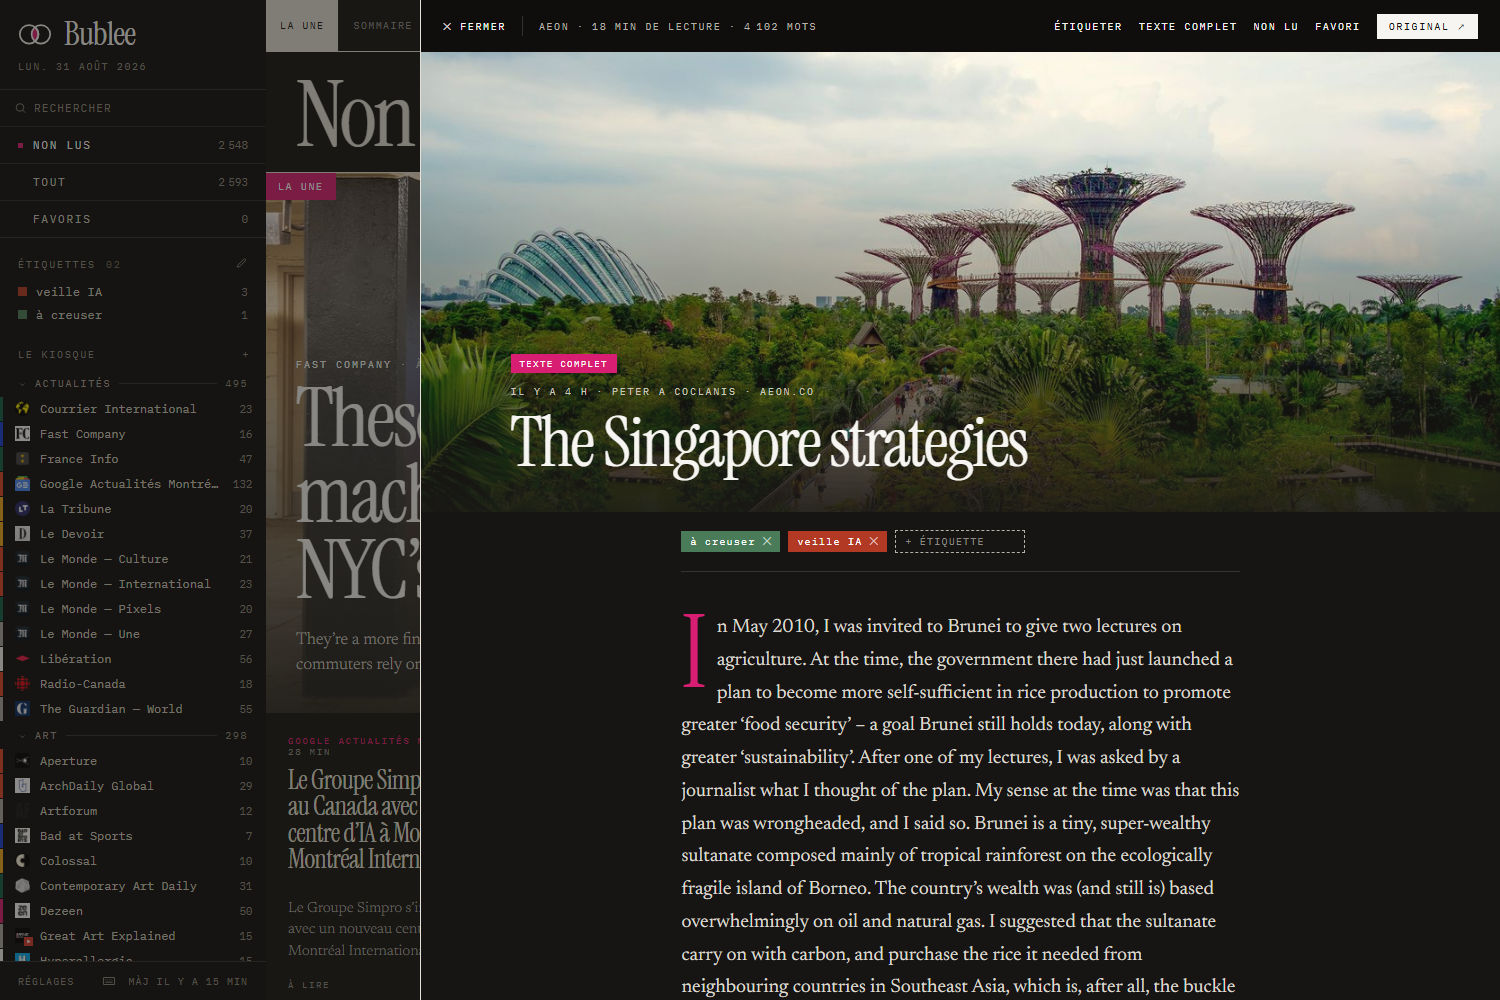
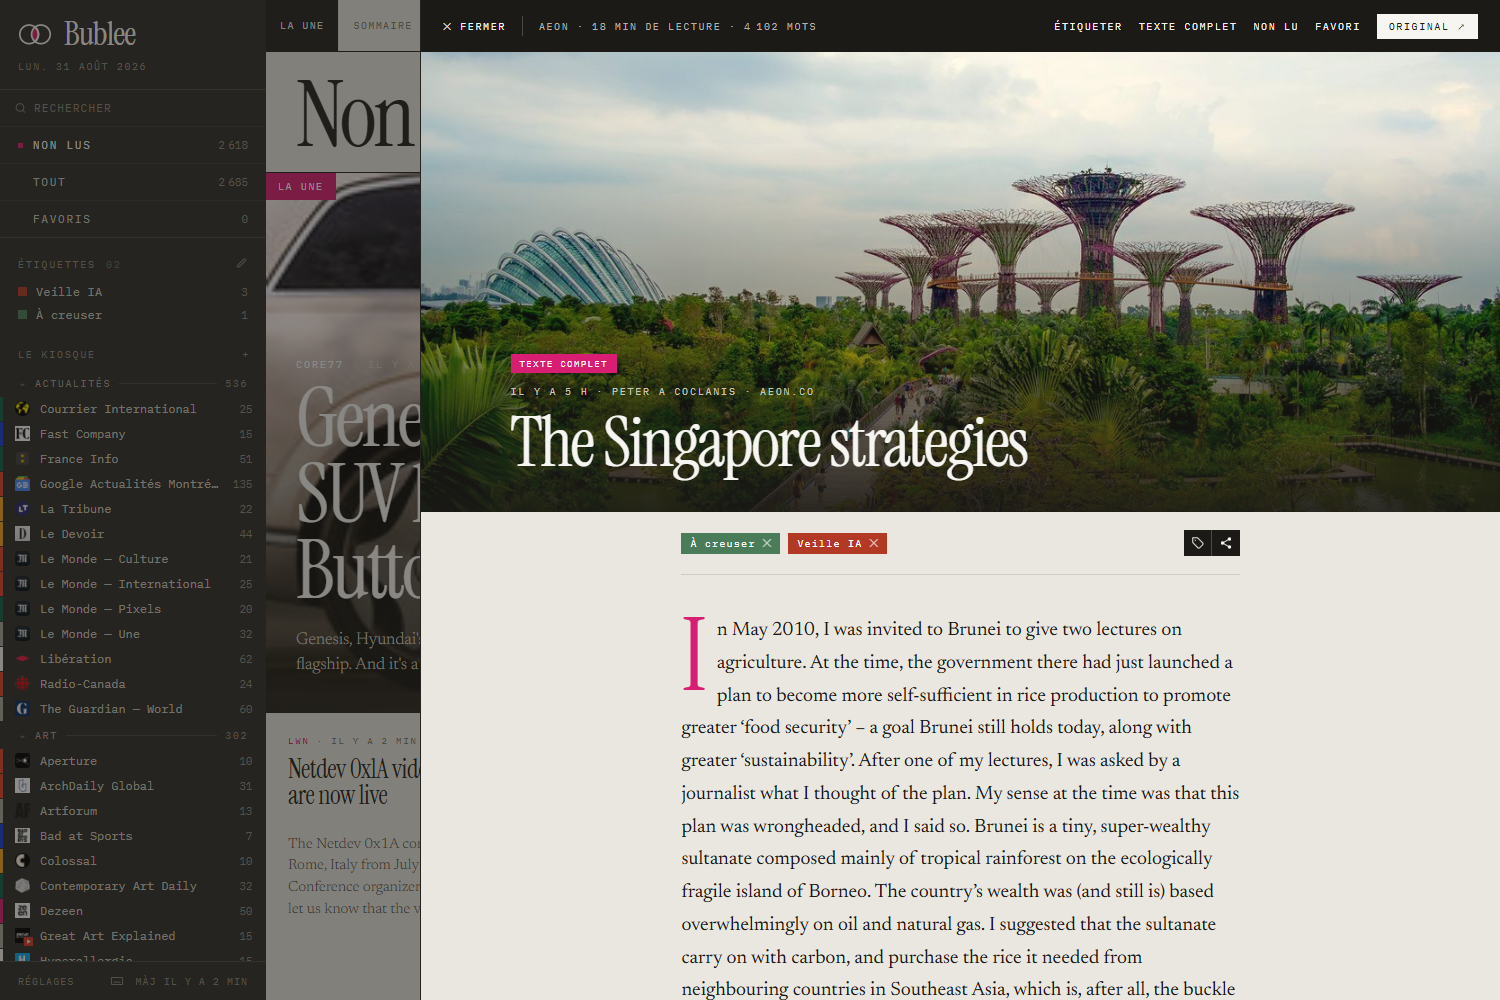
Le README montrait le thème sombre en décrivant le clair
Les captures suivaient le thème système de la machine de rendu : elles étaient
toutes sombres, alors que « Le dessin » détaille la palette claire — encre
#24231f sur papier crème. Le lecteur y lisait une app qui n'a qu'un thème, et
pas celui décrit.

Les quatre captures sont refaites en clair, avec le thème posé explicitement
avant le démarrage de l'app plutôt que laissé au système. Et le sombre existe
maintenant à l'image : la même une, juste après, pour que la comparaison se
fasse d'un coup d'œil.

La section « Le dessin » documente enfin les deux thèmes — et ce qui ne
s'inverse pas : l'index, sombre dans les deux, et --paper, qui veut dire
« encre claire sur fond sombre » et non « fond de page ».

diff --git a/README.md b/README.md
@@ -7,9 +7,16 @@ la machine à part les requêtes vers les flux eux-mêmes.
 
 <p align="center">
   <img src="docs/magazine.png" width="760"
-       alt="La une : index noir, manchette, une plein cadre, colonnes à filets, mur d'images, aplats typographiques">
-  <br><em>« La une » — la une plein cadre, la rangée de colonnes, le mur d'images,
-  les aplats et les plaques typographiques, puis les dépêches.</em>
+       alt="La une en thème clair : index sombre, manchette, une plein cadre, colonnes à filets, mur d'images, aplats typographiques">
+  <br><em>« La une » en thème clair — la une plein cadre, la rangée de colonnes,
+  le mur d'images, les aplats et les plaques typographiques, puis les dépêches.</em>
+</p>
+
+<p align="center">
+  <img src="docs/sombre.png" width="760"
+       alt="La même page en thème sombre : le papier passe à l'encre, l'index reste sombre">
+  <br><em>La même page en thème sombre. Le papier et l'encre s'échangent ;
+  l'index, lui, était déjà sombre et le reste.</em>
 </p>
 
 <p align="center">
@@ -106,6 +113,14 @@ fond éclairci. L'**accent** est une variable unique — tampon de la une,
 surtitres, filet qui se dessine au survol, pastilles de non-lu, lettrine, jauge
 de lecture. Quatre valeurs au choix dans les réglages : forêt `#10604a` (par
 défaut), vermillon `#e2452a`, Klein `#1b3fd8`, magenta `#d81e73`.
+
+**Deux thèmes**, et la bascule dans les réglages : clair, sombre, ou d'après le
+système. Le sombre échange le papier et l'encre — mais pas tout. L'index reste
+sombre dans les deux : il l'était déjà en clair, c'est sa nature de kiosque.
+Et `--paper` ne s'inverse pas non plus : ce jeton ne veut pas dire « fond de
+page », il veut dire « encre claire posée sur un fond sombre », et il n'a
+aucune raison de foncer parce que la page a foncé. L'avoir inversé une fois
+avait retourné les plaques de la une — titres blancs sur fond devenu blanc.
 
 Chaque source reçoit une **teinte** stable parmi six (plus deux neutres), tirée
 du hachage de son titre. Elle sert à trois endroits : la barre de 3 px dans
